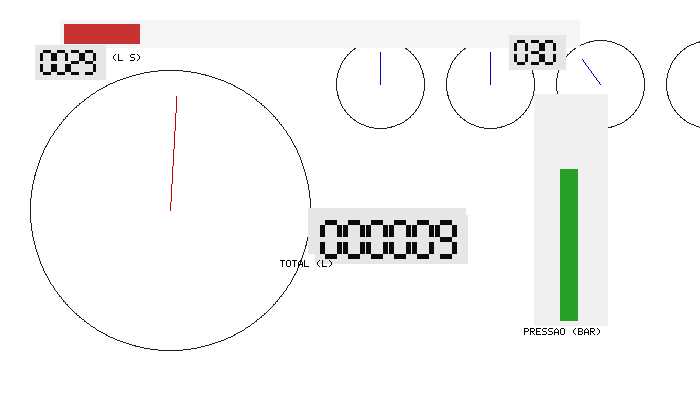
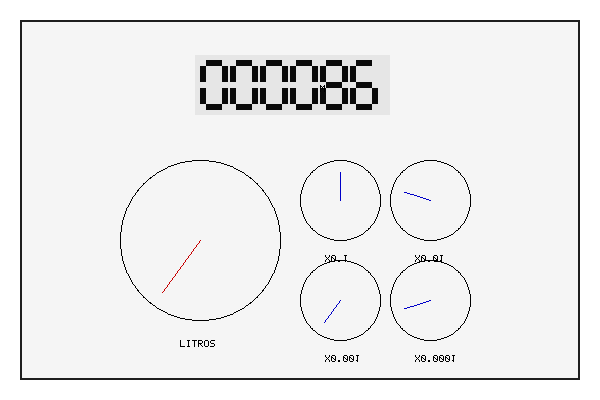
versão2

diff --git a/src/renderer.cpp b/src/renderer.cpp
@@ -10,80 +10,48 @@
 #define STB_IMAGE_WRITE_IMPLEMENTATION
 #include "external/stb_image_write.h"
 
-void Renderer::renderHydrometerPNG(const std::string &filename, double totalLiters,
+void Renderer::renderHydrometerPNG(const std::string &filename,
+                                   double totalLiters,
                                    int centenas, int dezenas, int unidades, int decimos,
                                    double instantLps, double pressure) {
-    const int W = 700, H = 420;
+    const int W = 600, H = 400;
     Image img(W, H, 255, 255, 255);
 
-    // ---- mostrador principal (mostrador analógico central) ----
-    int cx = 170, cy = 210, R = 140;
-    drawCircle(img, cx, cy, R, 30, 30, 30);
+    // --- caixa do hidrômetro ---
+    fillRect(img, 20, 20, W-40, H-40, 245, 245, 245);
+    fillRect(img, 20, 20, W-40, 2, 30, 30, 30);           // topo
+    fillRect(img, 20, H-22, W-40, 2, 30, 30, 30);         // baixo
+    fillRect(img, 20, 20, 2, H-40, 30, 30, 30);           // esquerda
+    fillRect(img, W-22, 20, 2, H-40, 30, 30, 30);
 
-    // ponteiro principal (mapeia litrosRest 0..999 para volta completa)
-    int litersRest = static_cast<int>(std::fmod(totalLiters, 1000.0));
-    double angle = (-M_PI/2.0) + ((double)litersRest / 1000.0) * (2*M_PI);
-    drawPointer(img, cx, cy, angle, R-25, 200, 0, 0);
+    // --- odômetro (parte de cima) ---
+    int odox = 200, odoy = 60;
+    int totalInt = static_cast<int>(totalLiters);
+    drawOdometer(img, odox, odoy, 6, 16, 6, 8, totalInt);
+    drawText(img, odox + 120, odoy + 25, "m³");
 
-    // ---- pequenos mostradores (centenas, dezenas, unidades, décimos) ----
-    int baseX = 380, baseY = 40;
-    int dR = 44;
-    int cx1 = baseX, cy1 = baseY + dR;
-    int cx2 = baseX + 110, cy2 = baseY + dR;
-    int cx3 = baseX + 220, cy3 = baseY + dR;
-    int cx4 = baseX + 330, cy4 = baseY + dR;
+    // --- mostrador central ---
+    int cx = W/2 - 100, cy = H/2 + 40, R = 80;
+    drawCircle(img, cx, cy, R, 0, 0, 0);
+    int litersRest = static_cast<int>(std::fmod(totalLiters, 10.0));
+    double angle = (-M_PI/2.0) + (litersRest/10.0) * 2*M_PI;
+    drawPointer(img, cx, cy, angle, R-15, 200, 0, 0);
+    drawText(img, cx-20, cy+R+20, "Litros");
 
-    auto drawSmall = [&](int cx, int cy, int value) {
-        drawCircle(img, cx, cy, dR, 30, 30, 30);
-        double a = (-M_PI/2.0) + ((double)value / 10.0) * (2*M_PI);
+    // --- pequenos mostradores embaixo ---
+    int baseX = W/2 + 40, baseY = H/2;
+    int dR = 40;
+    auto drawSmall = [&](int cx, int cy, int value, const std::string &label) {
+        drawCircle(img, cx, cy, dR, 0, 0, 0);
+        double a = (-M_PI/2.0) + ((double)value/10.0)*2*M_PI;
         drawPointer(img, cx, cy, a, dR-12, 0, 0, 200);
+        drawText(img, cx-15, cy+dR+15, label);
     };
-    
-    drawSmall(cx1, cy1, centenas);
-    drawSmall(cx2, cy2, dezenas);
-    drawSmall(cx3, cy3, unidades);
-    drawSmall(cx4, cy4, decimos);
+    drawSmall(baseX, baseY, centenas, "x0.1");
+    drawSmall(baseX+90, baseY, dezenas, "x0.01");
+    drawSmall(baseX, baseY+100, unidades, "x0.001");
+    drawSmall(baseX+90, baseY+100, decimos, "x0.0001");
 
-    // ---- odômetro sete-segmentos (caixa com fundo) ----
-    int totalLitersInt = static_cast<int>(totalLiters);
-    int odox = 320, odoy = 220;
-    int odow = 6 * (12 + 5 + 6); // largura estimada
-    int odox_box = odox - 6, odoy_box = odoy - 6;
-    
-    fillRect(img, odox_box - 6, odoy_box - 6, odow + 20, 46, 230, 230, 230);
-    drawOdometer(img, odox, odoy, 6, 12, 5, 6, totalLitersInt);
-    drawText(img, odox - 40, odoy + 40, "TOTAL (L)");
-
-    // ---- barra de pressão (visual) - com margem e fundo ----
-    int pbar_x = 560, pbar_y = 320, pbar_h = 220, pbar_w = 18;
-    fillRect(img, pbar_x - 26, pbar_y - pbar_h - 6, 74, pbar_h + 12, 240, 240, 240);
-    double pct = (pressure - 1.0) / (4.0 - 1.0);
-    if (pct < 0) pct = 0; if (pct > 1) pct = 1;
-    int fillh = static_cast<int>(pbar_h * pct);
-    
-    for (int y = pbar_y - fillh; y <= pbar_y; ++y) {
-        for (int x = pbar_x; x < pbar_x + pbar_w; ++x) {
-            img.setPixel(x, y, 40, 160, 40);
-        }
-    }
-    drawText(img, pbar_x - 36, pbar_y + 8, "PRESSAO (BAR)");
-
-    // ---- barra de consumo instantâneo (top central) com label e fundo ----
-    int ibox_x = 60, ibox_y = 20, ibox_w = 520, ibox_h = 28;
-    fillRect(img, ibox_x, ibox_y, ibox_w, ibox_h, 245, 245, 245);
-    double maxLps = 2.0;
-    double prop = instantLps / maxLps; 
-    if (prop < 0) prop = 0; if (prop > 1) prop = 1;
-    int barW = static_cast<int>(ibox_w * prop);
-    fillRect(img, ibox_x + 4, ibox_y + 4, barW, ibox_h - 8, 200, 50, 50);
-    drawText(img, ibox_x + 4, ibox_y + ibox_h + 6, "CONSUMO (L/S)");
-
-    // ---- small numeric overlays: instant consumption (left) and pressure (near bar) ----
-    int inst_int = static_cast<int>(instantLps * 100.0); // centésimos
-    drawOdometer(img, 40, 50, 4, 8, 3, 3, inst_int);
-    int press_int = static_cast<int>(pressure * 10.0); // décimos
-    drawOdometer(img, pbar_x - 46, 40, 3, 8, 3, 3, press_int);
-
-    // ---- salvar png ----
+    // --- salvar ---
     stbi_write_png(filename.c_str(), img.w, img.h, 3, img.data.data(), img.w*3);
 }
